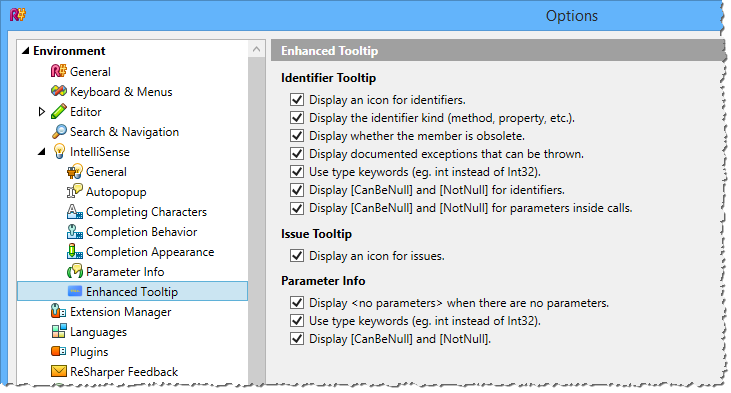
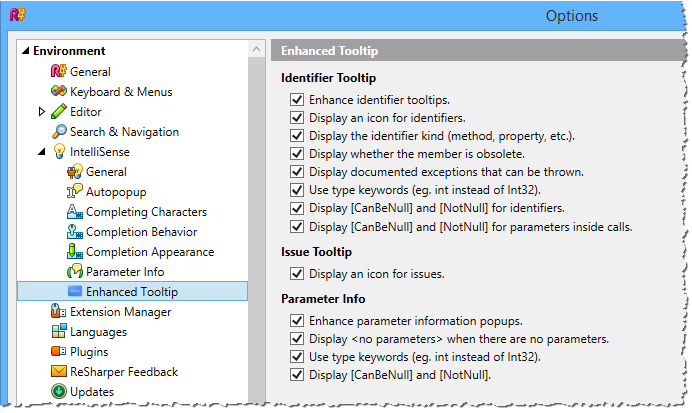
Added global disable options for identifier tooltips and parameter info.

Changed region(s): [[0.0, 0.0, 1.0, 1.0]]

diff --git a/GammaJul.ReSharper.EnhancedTooltip/Presentation/UIResources.xaml b/GammaJul.ReSharper.EnhancedTooltip/Presentation/UIResources.xaml
@@ -59,7 +59,7 @@
 					<DockPanel Margin="0">
 						<ContentPresenter x:Name="IconPresenter" Focusable="False"
 							Content="{Binding Icon}" Margin="0,0,4,0"
-							DockPanel.Dock="Left" VerticalAlignment="Center" HorizontalAlignment="Left" />
+							DockPanel.Dock="Left" VerticalAlignment="Top" HorizontalAlignment="Left" />
 						<controls:RichTextPresenter TextWrapping="Wrap" IsAutoContrasted="False"
 							RichText="{Binding Text}" VerticalAlignment="Center" />
 					</DockPanel>
@@ -126,7 +126,7 @@
 				<DockPanel>
 					<ContentPresenter x:Name="IconPresenter" Focusable="False"
 						Content="{Binding Icon}" Margin="0,0,4,0"
-						DockPanel.Dock="Left" VerticalAlignment="Center" HorizontalAlignment="Left" />
+						DockPanel.Dock="Left" VerticalAlignment="Top" HorizontalAlignment="Left" />
 					<controls:RichTextPresenter TextWrapping="Wrap" IsAutoContrasted="False"
 						RichText="{Binding Text}" VerticalAlignment="Center" />
 				</DockPanel>

diff --git a/GammaJul.ReSharper.EnhancedTooltip/Settings/EnhancedTooltipOptionsPage.xaml b/GammaJul.ReSharper.EnhancedTooltip/Settings/EnhancedTooltipOptionsPage.xaml
@@ -18,6 +18,7 @@
 
 		<StackPanel Orientation="Vertical" Margin="10,0,0,0">
 			<controls:SectionHeading Text="Identifier Tooltip" />
+			<controls:CheckBoxDisabledNoCheck2 x:Name="IdentifierTooltipEnabledCheckBox" />
 			<controls:CheckBoxDisabledNoCheck2 x:Name="IdentifierTooltipShowIconCheckBox" />
 			<controls:CheckBoxDisabledNoCheck2 x:Name="IdentifierTooltipShowKindCheckBox" />
 			<controls:CheckBoxDisabledNoCheck2 x:Name="IdentifierTooltipShowObsoleteCheckBox" />
@@ -34,6 +35,7 @@
 
 		<StackPanel Orientation="Vertical" Margin="10,0,0,0">
 			<controls:SectionHeading Text="Parameter Info" />
+			<controls:CheckBoxDisabledNoCheck2 x:Name="ParameterInfoEnabledCheckBox" />
 			<controls:CheckBoxDisabledNoCheck2 x:Name="ParameterInfoShowEmptyParametersTextCheckBox" />
 			<controls:CheckBoxDisabledNoCheck2 x:Name="ParameterInfoUseTypeKeywordsCheckBox" />
 			<controls:CheckBoxDisabledNoCheck2 x:Name="ParameterInfoShowNullnessCheckBox" />

diff --git a/GammaJul.ReSharper.EnhancedTooltip/Settings/EnhancedTooltipOptionsPage.xaml.cs b/GammaJul.ReSharper.EnhancedTooltip/Settings/EnhancedTooltipOptionsPage.xaml.cs
@@ -34,30 +34,40 @@ namespace GammaJul.ReSharper.EnhancedTooltip.Settings {
 			get { return this; }
 		}
 
-		private void SetCheckBoxBinding<TSettings>([NotNull] Expression<Func<TSettings, bool>> settingAccessor, [NotNull] CheckBoxDisabledNoCheck2 checkBox) {
+		private void SetCheckBoxBinding<TSettings>([NotNull] Expression<Func<TSettings, bool>> settingAccessor, [NotNull] CheckBoxDisabledNoCheck2 checkBox,
+			[CanBeNull] CheckBoxDisabledNoCheck2 parentCheckbox) {
+
 			SettingsScalarEntry entry = _context.Schema.GetScalarEntry(settingAccessor);
-			checkBox.Content = entry.Description;
+			if (checkBox.Content == null)
+				checkBox.Content = entry.Description;
 			_context.SetBinding<bool>(_lifetime, entry, checkBox, CheckBoxDisabledNoCheck2.IsCheckedLogicallyDependencyProperty);
+
+			if (parentCheckbox != null)
+				parentCheckbox.IsCheckedLogically.FlowInto(_lifetime, checkBox, IsEnabledProperty);
 		}
 
 		private void SetIdentifierTooltipSettingsBindings() {
-			SetCheckBoxBinding((IdentifierTooltipSettings s) => s.ShowIcon, IdentifierTooltipShowIconCheckBox);
-			SetCheckBoxBinding((IdentifierTooltipSettings s) => s.ShowKind, IdentifierTooltipShowKindCheckBox);
-			SetCheckBoxBinding((IdentifierTooltipSettings s) => s.ShowObsolete, IdentifierTooltipShowObsoleteCheckBox);
-			SetCheckBoxBinding((IdentifierTooltipSettings s) => s.ShowExceptions, IdentifierTooltipShowExceptionsCheckBox);
-			SetCheckBoxBinding((IdentifierTooltipSettings s) => s.UseTypeKeywords, IdentifierTooltipUseTypeKeywordsCheckBox);
-			SetCheckBoxBinding((IdentifierTooltipSettings s) => s.ShowIdentifierNullness, IdentifierTooltipShowIdentifierNullnessCheckBox);
-			SetCheckBoxBinding((IdentifierTooltipSettings s) => s.ShowParametersNullness, IdentifierTooltipShowParametersNullnessCheckBox);
+			CheckBoxDisabledNoCheck2 enabledCheckBox = IdentifierTooltipEnabledCheckBox;
+			SetCheckBoxBinding((IdentifierTooltipSettings s) => s.Enabled, enabledCheckBox, null);
+			SetCheckBoxBinding((IdentifierTooltipSettings s) => s.ShowIcon, IdentifierTooltipShowIconCheckBox, enabledCheckBox);
+			SetCheckBoxBinding((IdentifierTooltipSettings s) => s.ShowKind, IdentifierTooltipShowKindCheckBox, enabledCheckBox);
+			SetCheckBoxBinding((IdentifierTooltipSettings s) => s.ShowObsolete, IdentifierTooltipShowObsoleteCheckBox, enabledCheckBox);
+			SetCheckBoxBinding((IdentifierTooltipSettings s) => s.ShowExceptions, IdentifierTooltipShowExceptionsCheckBox, enabledCheckBox);
+			SetCheckBoxBinding((IdentifierTooltipSettings s) => s.UseTypeKeywords, IdentifierTooltipUseTypeKeywordsCheckBox, enabledCheckBox);
+			SetCheckBoxBinding((IdentifierTooltipSettings s) => s.ShowIdentifierNullness, IdentifierTooltipShowIdentifierNullnessCheckBox, enabledCheckBox);
+			SetCheckBoxBinding((IdentifierTooltipSettings s) => s.ShowParametersNullness, IdentifierTooltipShowParametersNullnessCheckBox, enabledCheckBox);
 		}
 
 		private void SetIssueTooltipSettingsBindings() {
-			SetCheckBoxBinding((IssueTooltipSettings s) => s.ShowIcon, IssueTooltipShowIconCheckBox);
+			SetCheckBoxBinding((IssueTooltipSettings s) => s.ShowIcon, IssueTooltipShowIconCheckBox, null);
 		}
 
 		private void SetParameterInfoSettingsBindings() {
-			SetCheckBoxBinding((ParameterInfoSettings s) => s.ShowEmptyParametersText, ParameterInfoShowEmptyParametersTextCheckBox);
-			SetCheckBoxBinding((ParameterInfoSettings s) => s.UseTypeKeywords, ParameterInfoUseTypeKeywordsCheckBox);
-			SetCheckBoxBinding((ParameterInfoSettings s) => s.ShowNullness, ParameterInfoShowNullnessCheckBox);
+			CheckBoxDisabledNoCheck2 enabledCheckBox = ParameterInfoEnabledCheckBox;
+			SetCheckBoxBinding((ParameterInfoSettings s) => s.Enabled, enabledCheckBox, null);
+			SetCheckBoxBinding((ParameterInfoSettings s) => s.ShowEmptyParametersText, ParameterInfoShowEmptyParametersTextCheckBox, enabledCheckBox);
+			SetCheckBoxBinding((ParameterInfoSettings s) => s.UseTypeKeywords, ParameterInfoUseTypeKeywordsCheckBox, enabledCheckBox);
+			SetCheckBoxBinding((ParameterInfoSettings s) => s.ShowNullness, ParameterInfoShowNullnessCheckBox, enabledCheckBox);
 		}
 
 		public EnhancedTooltipOptionsPage([NotNull] Lifetime lifetime, [NotNull] OptionsSettingsSmartContext context) {

diff --git a/GammaJul.ReSharper.EnhancedTooltip/ParameterInfo/EnhancedParameterInfoContextFactory.cs b/GammaJul.ReSharper.EnhancedTooltip/ParameterInfo/EnhancedParameterInfoContextFactory.cs
@@ -1,6 +1,7 @@
 using System.Collections.Generic;
 using System.Linq;
 using GammaJul.ReSharper.EnhancedTooltip.Presentation;
+using GammaJul.ReSharper.EnhancedTooltip.Settings;
 using JetBrains.Annotations;
 using JetBrains.Application;
 using JetBrains.Application.Settings;
@@ -45,6 +46,9 @@ namespace GammaJul.ReSharper.EnhancedTooltip.ParameterInfo {
 
 		[CanBeNull]
 		private static IParameterInfoContext Enhance([CanBeNull] IParameterInfoContext context, [NotNull] ISolution solution, [NotNull] IContextBoundSettingsStore settings) {
+			if (!settings.GetValue((ParameterInfoSettings s) => s.Enabled))
+				return context;
+
 			return context == null
 				? null
 				: new EnhancedParameterInfoContext(context, solution.GetComponent<ColorizerPresenter>(), settings);

diff --git a/GammaJul.ReSharper.EnhancedTooltip/DocumentMarkup/IdentifierTooltipContentProvider.cs b/GammaJul.ReSharper.EnhancedTooltip/DocumentMarkup/IdentifierTooltipContentProvider.cs
@@ -43,6 +43,9 @@ namespace GammaJul.ReSharper.EnhancedTooltip.DocumentMarkup {
 		/// <returns>A <see cref="IdentifierTooltipContent"/> representing a colored tooltip, or <c>null</c>.</returns>
 		[CanBeNull]
 		public IdentifierTooltipContent TryGetIdentifierContent([NotNull] IHighlighter highlighter, [NotNull] PsiLanguageType languageType, [NotNull] IContextBoundSettingsStore settings) {
+			if (!settings.GetValue((IdentifierTooltipSettings s) => s.Enabled))
+				return null;
+			
 			IPsiSourceFile psiSourceFile;
 			DeclaredElementInstance elementInstance = FindValidHighlightedElement(highlighter, languageType, out psiSourceFile);
 			if (elementInstance == null)

diff --git a/GammaJul.ReSharper.EnhancedTooltip/Settings/ParameterInfoSettings.cs b/GammaJul.ReSharper.EnhancedTooltip/Settings/ParameterInfoSettings.cs
@@ -5,6 +5,12 @@ namespace GammaJul.ReSharper.EnhancedTooltip.Settings {
 	[SettingsKey(typeof(EnhancedTooltipSettingsRoot), "Settings determining how information about parameters are shown when writing a call.")]
 	public class ParameterInfoSettings {
 
+		[SettingsEntry(true, "Enhance parameter information popups.")]
+		public bool Enabled { get; set; }
+
+		[SettingsEntry(true, "Colorize C# calls.")]
+		public bool ColorizeSupportedLanguages { get; set; }
+
 		[SettingsEntry(true, "Display <no parameters> when there are no parameters.")]
 		public bool ShowEmptyParametersText { get; set; }
 

diff --git a/GammaJul.ReSharper.EnhancedTooltip/Settings/IdentifierTooltipSettings.cs b/GammaJul.ReSharper.EnhancedTooltip/Settings/IdentifierTooltipSettings.cs
@@ -5,6 +5,9 @@ namespace GammaJul.ReSharper.EnhancedTooltip.Settings {
 	[SettingsKey(typeof(EnhancedTooltipSettingsRoot), "Settings determining how tooltips are shown for identifiers.")]
 	public class IdentifierTooltipSettings {
 
+		[SettingsEntry(true, "Enhance identifier tooltips.")]
+		public bool Enabled { get; set; }
+
 		[SettingsEntry(true, "Display an icon for identifiers.")]
 		public bool ShowIcon { get; set; }
 
